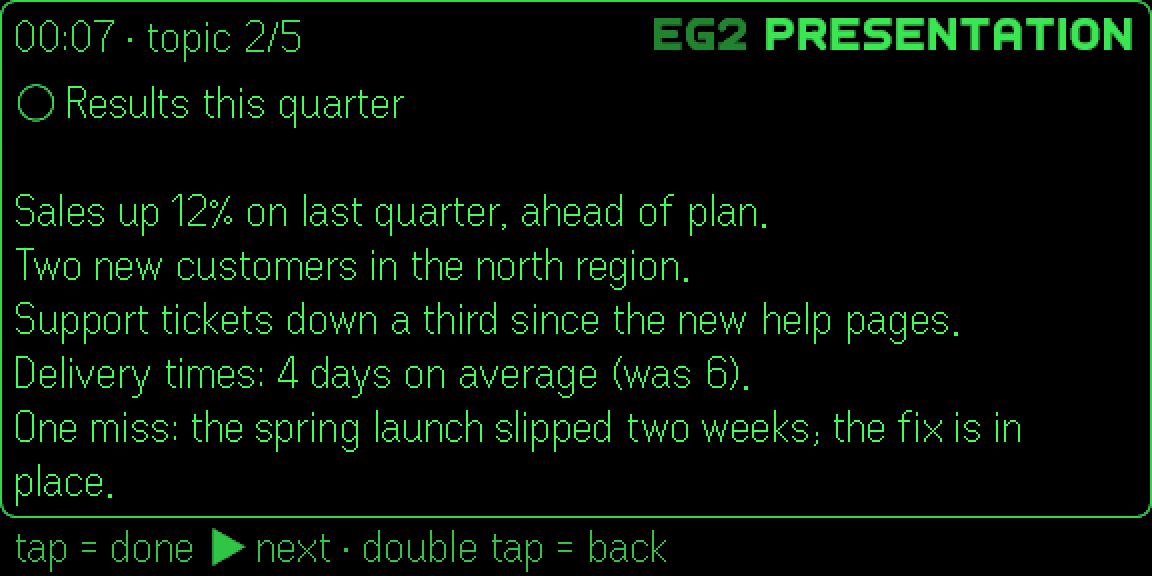
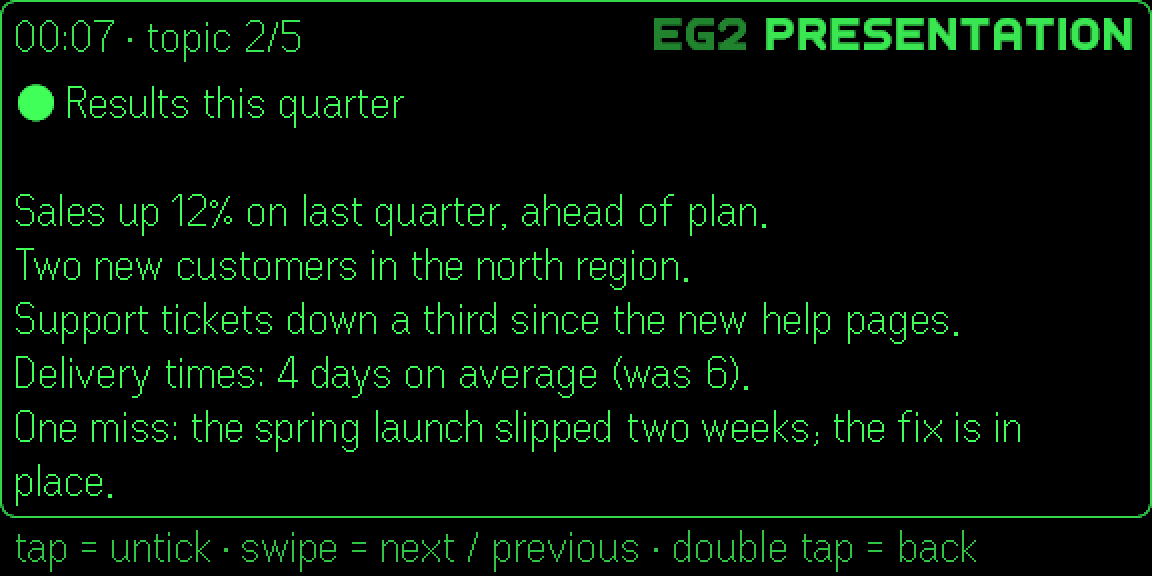
EG2Presentation 1.1.0: tick and untick topics on the glasses
In a topic's details a tap now ticks or unticks the topic and stays on it;
a swipe past the last page goes to the next topic, before the first page to
the previous one (a long text turns its pages first; nothing past the ends;
back lands on the topic reached). The hint says "tap = tick" or
"tap = untick", plus "swipe = next / previous" when there's another topic or
page. Before, a tap marked the topic done and jumped to the next, and nothing
unticked on the glasses.

- Three new tests replace the two old ones; docs, changelog and the topic
  screenshot updated.
- doc-shots waits for the glasses' first page before tapping (a cold preview
  dropped the first taps and shifted the sequence).

Changed region(s): [[0.125, 0.9062, 0.75, 1.0], [0.0, 0.1562, 0.0625, 0.2188], [0.7812, 0.9375, 0.8438, 0.9688]]

diff --git a/apps/eg2presentation/src/glasses.ts b/apps/eg2presentation/src/glasses.ts
@@ -1,9 +1,9 @@
 // EG2Presentation on the glasses: folders → presentations → topics (with the stopwatch rows at the top) → a topic's
-// details a page at a time. In a topic's details, tap = done → next topic (a proven design, kept as it was);
-// a swipe down past the last page goes on to the next topic too. Creating and editing happen on the phone; the glasses
+// details a page at a time. In a topic's details, tap = tick / untick and stay; a swipe past the last page goes to the
+// next topic, before the first page to the previous one. Creating and editing happen on the phone; the glasses
 // mark done, run the stopwatch, move and delete (glasses menu, every delete confirmed).
 
-import type { ListStyle, Navigator, Row, RowMenu, Screen } from "@eg2apps/shared";
+import { textPages, type ListStyle, type Navigator, type Row, type RowMenu, type Screen } from "@eg2apps/shared";
 import { formatElapsed, type Stopwatch } from "./stopwatch.ts";
 import {
   countDone, findFolder, findPresentation, moveFolder, movePresentation, moveTopic, removeFolder, removePresentation,
@@ -42,31 +42,38 @@ export function talksScreens(doc: () => TalksDoc, nav: Navigator, sw: Stopwatch,
   // Short enough to fit beside the corner wordmark (measured: "Quarterly review · 00:10 · 1/5" is 244 of 287 px).
   const talkHeader = (name: string, done: string, now: string) => `${name} · ${now} · ${done}`;
 
+  /**
+   * A topic's details, a page at a time. Tap = tick / untick this topic and stay (the ○ / ● changes in front of you);
+   * swipe down past the last page = the next topic, swipe up on the first page = the previous one; double tap = back to
+   * the topics, on the topic you reached. (1.1.0: "tap ticks, swipe moves"; before, a tap marked the topic done and
+   * jumped to the next, and nothing unticked on the glasses.)
+   */
   const topicDetails = (presentationId: string, topicId: string): Screen => {
     const found = findPresentation(doc(), presentationId);
     const topics = found?.presentation.topics ?? [];
     const i = topics.findIndex((t) => t.id === topicId);
     const t = topics[i];
     if (!found || !t) return gone();
-    const next = topics[i + 1];
-    const goNext = () => {
-      if (next) {
-        nav.parentCursorBy(1); // back from the details lands on the topic you're on
-        nav.replace(() => topicDetails(presentationId, next.id));
-      } else nav.pop();
+    const go = (other: number) => {
+      const to = topics[other];
+      if (!to) return; // the first or the last topic: nothing to move to
+      nav.parentCursorBy(other - i); // back from the details lands on the topic you're on
+      nav.replace(() => topicDetails(presentationId, to.id));
     };
+    const body = `${tick(t.done)} ${t.title}${t.details ? `\n\n${t.details}` : ""}`;
+    const swipes = topics.length > 1 || textPages(body).length > 1; // another topic or another page to swipe to
     return {
       kind: "text",
       header: `${formatElapsed(sw.elapsed())} · topic ${i + 1}/${topics.length}`, // the topic's title is the page's first line
       ticks: true,
-      body: `${tick(t.done)} ${t.title}${t.details ? `\n\n${t.details}` : ""}`,
-      hint: "tap = done ▶ next · double tap = back", // → is missing from the glasses font
+      body,
+      hint: `tap = ${t.done ? "untick" : "tick"}${swipes ? " · swipe = next / previous" : ""} · double tap = back`,
       onTap: () => {
-        setTopicDone(doc(), presentationId, t.id, true);
-        changed();
-        goNext();
+        setTopicDone(doc(), presentationId, t.id, !t.done);
+        changed(); // saves and redraws this page: the cursor and page stay
       },
-      onPastEnd: goNext,
+      onPastEnd: () => go(i + 1),
+      onPastStart: () => go(i - 1),
       menu: menu(t.title, (d) => moveTopic(doc(), presentationId, t.id, d), () => removeTopic(doc(), presentationId, t.id)),
     };
   };

diff --git a/packages/shared/src/model.ts b/packages/shared/src/model.ts
@@ -50,7 +50,7 @@ export interface TextScreen {
   header: string;
   /** The text, split into pages of whole lines; a swipe turns the page. */
   body: string;
-  /** Runs on a tap (e.g. "done → next topic"). */
+  /** Runs on a tap (e.g. tick or untick a topic). */
   onTap?: () => void;
   /** Runs on double tap before going back; return true to stay. */
   onBack?: () => boolean | void;

diff --git a/docs/reference/features/eg2presentation.md b/docs/reference/features/eg2presentation.md
@@ -50,9 +50,12 @@ not counted tick by tick, so it stays right while Android pauses the page or the
   `● Pause  00:04`; `▶ Resume  00:04` + `○ Reset stopwatch`), a spacer, then `○ 1. Title` / `● 1. Title`.
 - **Header:** `Name · 00:04 · 1/5`, measured to fit beside the corner wordmark; the time is read once per redraw, so
   the header and the row always agree. With Even's list the row says "stopwatch" (a row can't change in place there).
-- **A topic's details:** header `00:04 · topic 2/5`; `onTap` marks it done and replaces the page with the next topic
-  (`parentCursorBy(1)` keeps the topics list's cursor in step); `onPastEnd` (swipe past the last page) moves on
-  without marking. `✓` and `→` aren't in the glasses font: `●` `○` `▶` instead (`tests/glyphs.test.mjs`).
+- **A topic's details** (1.1.0): header `00:04 · topic 2/5`; `onTap` toggles the topic's done
+  flag (`setTopicDone`, then `changed()` redraws the same page); `onPastEnd` / `onPastStart` (a swipe past the last or
+  before the first page) `replace` the page with the next / previous topic, and `parentCursorBy(other − i)` keeps the
+  topics list's cursor in step; nothing past the ends. The hint says `tap = tick` or `tap = untick`, plus
+  `swipe = next / previous` when there's another topic or page. Before 1.1.0 a tap marked the topic done and jumped to
+  the next. `✓` and `→` aren't in the glasses font: `●` `○` `▶` instead (`tests/glyphs.test.mjs`).
 
 ## Privacy
 

diff --git a/docs/how-to/features/eg2presentation.md b/docs/how-to/features/eg2presentation.md
@@ -16,9 +16,11 @@ you talk, and a stopwatch. Created and edited on the phone; on the glasses you g
 - **The stopwatch:** **▶ Start stopwatch**; while running **● Pause** (with the time); when paused **▶ Resume** and
   **○ Reset stopwatch**. It keeps time while the phone is locked or the app is in the background.
 - **A topic:** its title, then its details, a page at a time. The header shows the stopwatch and `topic 2/5`.
-  - **Tap = done ▶ next:** marks the topic `●` and opens the next one (after the last, back to the topics).
-  - Swipe down past the last page: on to the next topic, without marking it done.
-  - Double tap: back to the topics, with the cursor on the topic you were on.
+  - **Tap = tick / untick:** marks the topic `●` (done) or back to `○`, and you stay on it.
+  - **Swipe down** past the last page: the next topic; **swipe up** on the first page: the previous one. A long text
+    turns its pages first. Swiping never ticks; nothing happens past the first or last topic.
+  - Double tap: back to the topics, with the cursor on the topic you reached.
+  - The line under the frame says what a tap does now: `tap = tick` or `tap = untick`.
 - **Glasses menu** (tap, then press and hold): Move up, Move down, Select and Delete on folders, presentations and
   topics; on a topic's page, for that topic. Deleting a folder or presentation says what's inside and deletes it too.
   See [glasses-menu.md](glasses-menu.md).

diff --git a/README.md b/README.md
@@ -23,7 +23,8 @@ account, no internet: your data stays on your phone.
 - **EG2Notes:** notes with a text and a checklist. On the glasses, open a note, read its text a page at a time, tick
   items with a tap (temple touchpads or the R1 ring), mark notes done.
 - **EG2Presentation:** folders of presentations, each an ordered list of topics with your details. On the glasses, a
-  tap marks a topic done and shows the next; a talk stopwatch keeps time, even while the phone is locked.
+  tap ticks or unticks a topic and a swipe moves to the next or previous one; a talk stopwatch keeps time, even while
+  the phone is locked.
 - **The glasses menu:** Move up, Move down, Select and Delete on the row under the cursor; every delete asks first.
 - **The phone page:** create, edit, rename, reorder and delete; light or dark (or match the phone).
 - **Your choice of lists:** the apps' text cursor, or Even's own select box.

diff --git a/docs/tutorials/user-guide.md b/docs/tutorials/user-guide.md
@@ -85,8 +85,8 @@ Folders of presentations; a presentation is an ordered list of topics, each with
   stopwatch and topics done (`Quarterly review · 00:04 · 0/5`).
 - **The stopwatch** is at the top of every presentation's topics: **▶ Start**, **● Pause**, **▶ Resume**,
   **○ Reset**. It keeps time while the phone is locked, and the phone page shows the same stopwatch.
-- **A topic's details:** tap = **done ▶ next** (marks it `●` and opens the next topic). Swiping down past the last
-  page also moves on. Double tap = back to the topics.
+- **A topic's details:** **tap = tick / untick** (`●` done, `○` not yet; you stay on the topic). **Swipe down / up**
+  = the next / previous topic (a long text turns its pages first). Double tap = back to the topics.
 
 More: [how-to/features/eg2presentation.md](../how-to/features/eg2presentation.md).
 

diff --git a/docs/how-to/screenshots.md b/docs/how-to/screenshots.md
@@ -45,6 +45,8 @@ One screenshot only: add the output folder and its name, e.g.
 
 - **One simulator per automation port** (9898). Another one running: set `SIM_PORT=9899`.
 - **Editing the code reloads the simulator's page** (hot reload): don't edit while it runs.
+- The script waits until the glasses show the app's first page before it taps: a freshly started preview is slow on
+  its first load, and taps sent before then are lost (the whole sequence shifts).
 - The last step of each app's run sets Appearance back to Match phone (in case the simulator keeps settings between starts).
 - Changing the sample data or the screens changes the pictures: run both apps again and look at every picture before
   committing.

diff --git a/CHANGELOG.md b/CHANGELOG.md
@@ -2,6 +2,12 @@
 
 User-visible changes per released version of each app.
 
+## EG2Presentation 1.1.0
+
+- **Tick and untick topics on the glasses:** in a topic's details, a tap ticks it (`●`) or unticks it (`○`), and you
+  stay on it. **Swipe down / up** for the next / previous topic (a long text turns its pages first). Before, a tap
+  marked the topic done and jumped to the next, and nothing unticked on the glasses.
+
 ## 1.0.2
 
 - **Both:** pasted or imported text with very long runs of spaces no longer slows the app down; the checks on a note's
